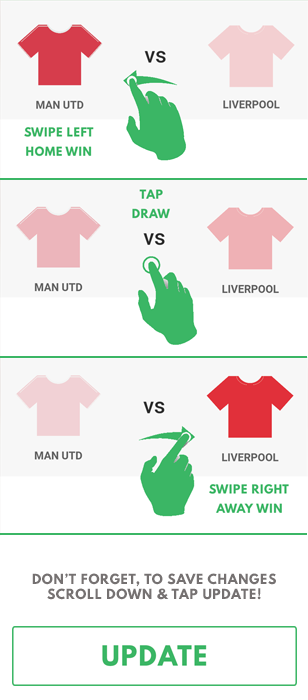
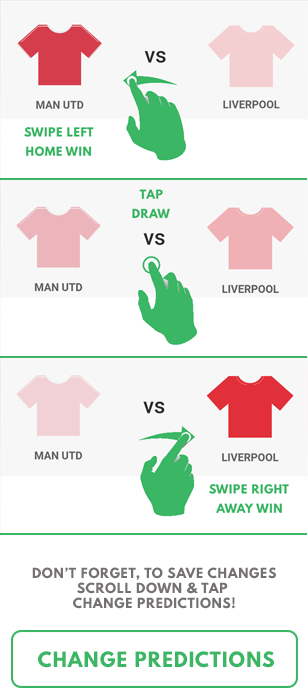
Removing setting "check for updates" button

Changed region(s): [[0.0292, 0.87, 0.9935, 0.99], [0.0877, 0.81, 0.9058, 0.87]]

diff --git a/www/css/ionic.app.css b/www/css/ionic.app.css
@@ -8091,7 +8091,7 @@ border-radius: 5px!important;
   -ms-flex-pack: justify;
   justify-content: space-between;
   /*height: 19rem;*/
-  height: 52vh;
+  height: 58vh;
   background-color: white !important;
   padding: 0rem;
   margin-bottom: 1rem; }
@@ -8210,9 +8210,37 @@ border-radius: 5px!important;
     .fix-pred-li .fix-pred-li-shirts .correct p {
       color: green !important;
       border: 2px solid green; }
+
+    .prediction-label.correct p{
+      color: green !important;
+      border: 2px solid green;
+      background-color: white;
+    width: 50vw;
+    height: 5vh;
+    font-size: x-large;
+
+    margin-top: 1vh!important;
+    margin-bottom: 1vh!important;
+    margin-left: 22.5vw;
+      }
+
     .fix-pred-li .fix-pred-li-shirts .incorrect p {
       color: red !important;
       border: 2px solid red; }
+
+      .prediction-label.incorrect p{
+        color: red !important;
+        border: 2px solid red;
+        background-color: white;
+      width: 50vw;
+      height: 5vh;
+      font-size: x-large;
+      padding-top: 0.75vh;
+      margin-top: 1vh!important;
+      margin-bottom: 1vh!important;
+      margin-left: 22.5vw;
+      }
+
     .fix-pred-li .fix-pred-li-shirts .fix-details {
       display: -webkit-flex;
       display: -ms-flexbox;

diff --git a/www/templates/round-detail.html b/www/templates/round-detail.html
@@ -52,10 +52,11 @@
                             <em class="list-away-team-name">{{fixture.awayTeam | uppercase}}</em>
                         </div>
                     </div>
-                    <div class="prediction-label" ng-class="{correct: fixture.predictionOutcome == 'Correct', incorrect: fixture.predictionOutcome == 'Incorrect'}" ng-if="fixture.prediction != 'NONE'">
-                        <p>{{fixture.predictionOutcome | uppercase}}</p>
-                    </div>
                 </div>
+                <div class="prediction-label" ng-class="{correct: fixture.predictionOutcome == 'Correct', incorrect: fixture.predictionOutcome == 'Incorrect'}" ng-if="fixture.prediction != 'NONE'">
+                    <p>{{fixture.predictionOutcome | uppercase}}</p>
+                </div>
+
                 <div class="user-prediction">
                     <div>
                         <p>KICK OFF:</p>
@@ -86,7 +87,7 @@
             </ion-item>
         </ion-list>
         <button ng-if="!allComplete" class="button button-stable button-block button-submit" ng-click="sendPredictions()">
-            UPDATE PREDICTIONS
+            CHANGE PREDICTIONS
         </button>
     </ion-content>
 </ion-view>

diff --git a/www/templates/tab-settings.html b/www/templates/tab-settings.html
@@ -68,9 +68,9 @@
             <div class="item">
                 <a href="#/tab/settings/about">ABOUT US</a>
             </div>
-            <div class="item" ng-click="checkForUpdates()">
+            <!--<div class="item" ng-click="checkForUpdates()">
                 <p>CHECK FOR UPDATES</p>
-            </div>
+            </div>-->
             <div class="item sign-out" ng-click="signOut()">
                 <div class="sign-out-contents">
                     <p class="sign-out-label">SIGN OUT USER {{userData.username | uppercase}}</p>
